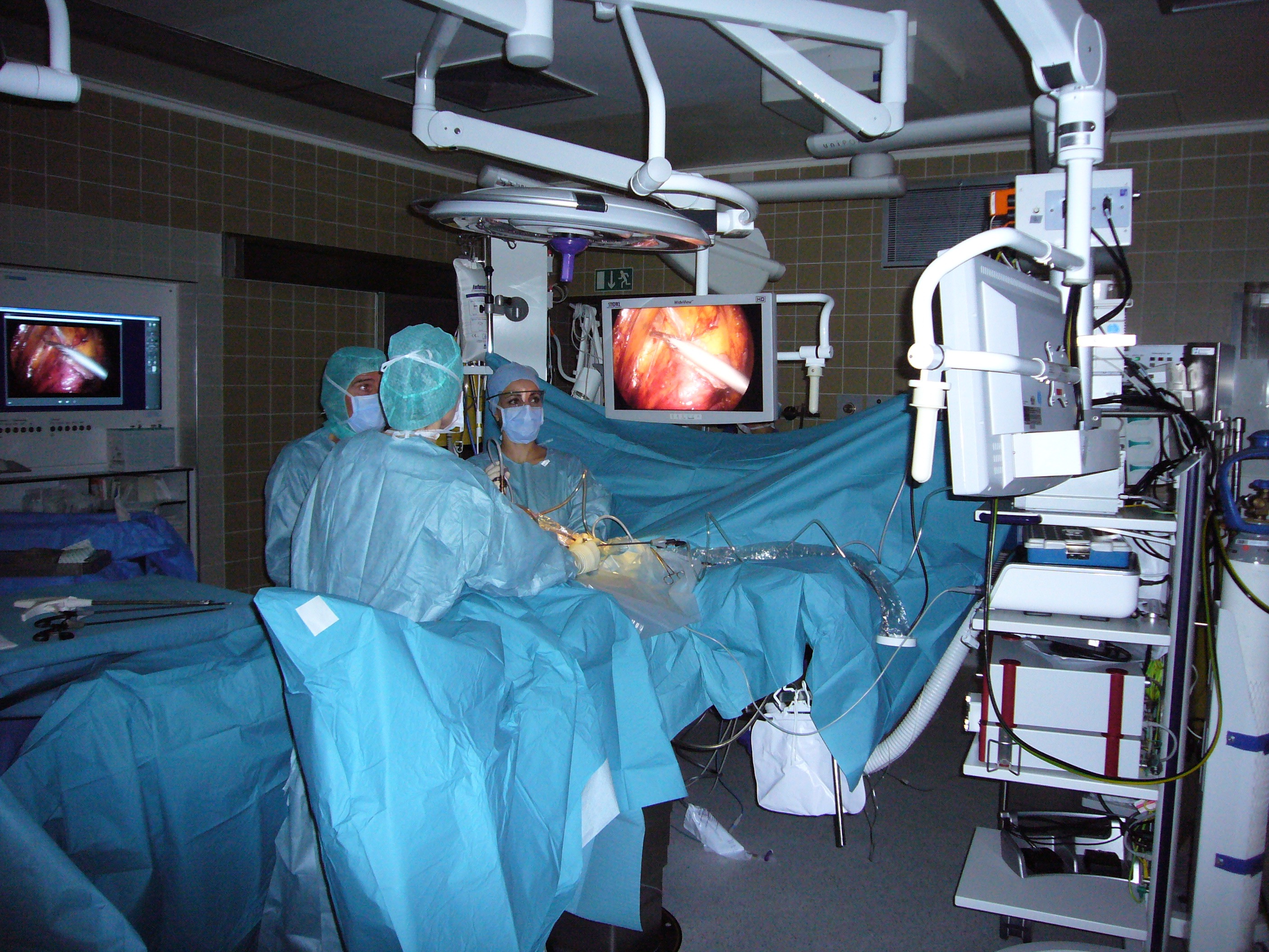
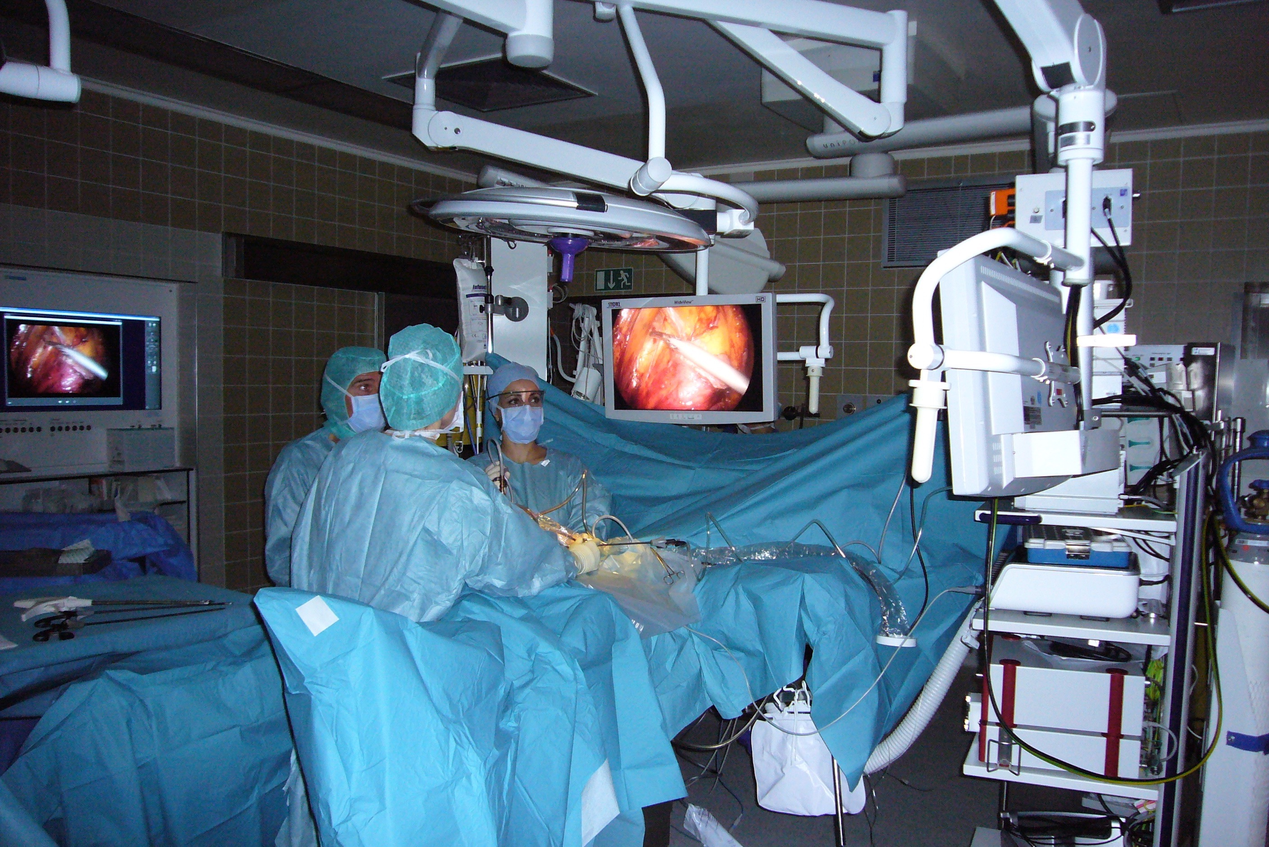
Proper image alignment

diff --git a/assets/css/custom.css b/assets/css/custom.css
@@ -1,0 +1,17 @@
+.nav__list {
+    background-color: #34b559;
+}
+
+/* Three image containers (use 25% for four, and 50% for two, etc) */
+.column {
+    float: left;
+    width: 45%;
+    padding: 5px;
+}
+  
+/* Clear floats after image containers */
+.row::after {
+    content: "";
+    clear: both;
+    display: table;
+}

diff --git a/content/english/_index.md b/content/english/_index.md
@@ -4,16 +4,14 @@ author = "Jacques Kayser"
 +++
 
 
-<table>
-  <tr>
-    <td></td>
-     <td></td>
-  </tr>
-  <tr>
-    <td><img src="./images/inaction/opfull.jpg" alt="opfull" height="400"/></td>
-    <td><img src="./images/inaction/opmanual.jpg" alt="opmanual" height="400"/></td>
-  </tr>
- </table>
+<div class="row">
+  <div class="column">
+     <img src="./images/inaction/opfull.jpg" alt="opfull" width="100%"/>
+  </div>
+  <div class="column">
+    <img src="./images/inaction/opmanual.jpg" alt="opmanual" width="100%"/>
+  </div>
+</div>
 
 
 ## Poles de Competences
